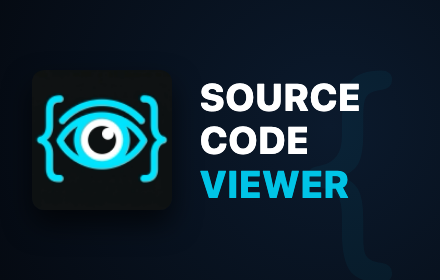
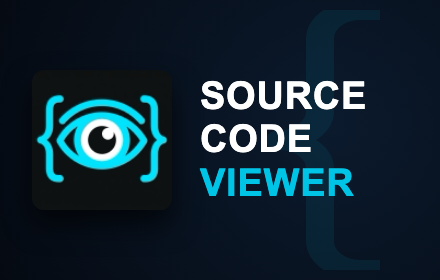
fix(promo): match original typography, lucide brackets and horizontal code lines

Changed region(s): [[0.4432, 0.2857, 0.8273, 0.4], [0.4432, 0.6, 0.7977, 0.7143], [0.4432, 0.4286, 0.7091, 0.5714]]

diff --git a/scripts/generate-promo-images.ts b/scripts/generate-promo-images.ts
@@ -40,22 +40,17 @@ async function generatePromoImages(): Promise<void> {
             display: flex;
             align-items: center;
             justify-content: center;
-            font-family: -apple-system, BlinkMacSystemFont, "Segoe UI", Roboto, Helvetica, Arial, sans-serif;
+            font-family: Arial, Helvetica, sans-serif;
             position: relative;
           }
-          /* Background watermark brackets */
-          .watermark {
+          /* Background Lucide bracket */
+          .b-left {
             position: absolute;
-            right: 12px;
-            top: 20px;
-            font-size: 260px;
-            font-family: "JetBrains Mono", Consolas, monospace;
-            font-weight: 300;
-            color: #00c4e6;
-            opacity: 0.05;
-            user-select: none;
+            left: 240px;
+            top: 10px;
+            width: 140px;
+            height: 260px;
             pointer-events: none;
-            line-height: 1;
           }
           .container {
             display: flex;
@@ -77,7 +72,6 @@ async function generatePromoImages(): Promise<void> {
             width: 100%;
             height: 100%;
             display: block;
-            image-rendering: auto;
           }
           .title-wrap {
             display: flex;
@@ -86,7 +80,7 @@ async function generatePromoImages(): Promise<void> {
           }
           .word-white {
             font-size: 38px;
-            font-weight: 800;
+            font-weight: bold;
             line-height: 1.08;
             letter-spacing: 0.02em;
             color: #ffffff;
@@ -94,7 +88,7 @@ async function generatePromoImages(): Promise<void> {
           }
           .word-cyan {
             font-size: 38px;
-            font-weight: 800;
+            font-weight: bold;
             line-height: 1.08;
             letter-spacing: 0.02em;
             color: #00c4e6;
@@ -103,7 +97,9 @@ async function generatePromoImages(): Promise<void> {
         </style>
       </head>
       <body>
-        <div class="watermark">{</div>
+        <svg class="b-left" viewBox="1 3 7 18" preserveAspectRatio="none" fill="none" stroke="#00c4e6" stroke-width="1.4" stroke-linecap="round" stroke-linejoin="round" opacity="0.08">
+          <path d="M8 3H7a2 2 0 0 0-2 2v5a2 2 0 0 1-2 2 2 2 0 0 1 2 2v5c0 1.1.9 2 2 2h1" />
+        </svg>
         <div class="container">
           <div class="icon-wrap">
             <img src="${iconBase64}" alt="Icon" />
@@ -118,7 +114,7 @@ async function generatePromoImages(): Promise<void> {
       </html>
     `);
 
-    await page.waitForTimeout(300);
+    await page.waitForTimeout(400);
     const smallPromoLocal = path.join(STORE_PROMO_DIR, 'small-promo-440x280.png');
     const smallPromoTarget = path.join(TARGET_DIR, 'small-promo-440x280.png');
     await page.screenshot({ path: smallPromoLocal });
@@ -141,64 +137,42 @@ async function generatePromoImages(): Promise<void> {
             height: 560px;
             overflow: hidden;
             background: radial-gradient(circle at 65% 50%, #0d223a 0%, #050a12 100%);
-            display: flex;
-            align-items: center;
-            justify-content: center;
-            font-family: -apple-system, BlinkMacSystemFont, "Segoe UI", Roboto, Helvetica, Arial, sans-serif;
             position: relative;
+            font-family: Arial, Helvetica, sans-serif;
           }
-          /* Background watermark brackets & lines */
-          .watermark-bracket-left {
+          /* Background Lucide brackets */
+          .brace-left {
             position: absolute;
-            left: 580px;
-            top: 15px;
-            font-size: 520px;
-            font-family: "JetBrains Mono", Consolas, monospace;
-            font-weight: 300;
-            color: #00c4e6;
-            opacity: 0.04;
-            user-select: none;
+            left: 495px;
+            top: 89px;
+            width: 260px;
+            height: 440px;
             pointer-events: none;
-            line-height: 1;
           }
-          .watermark-bracket-right {
+          .brace-right {
             position: absolute;
-            right: 70px;
-            top: 15px;
-            font-size: 520px;
-            font-family: "JetBrains Mono", Consolas, monospace;
-            font-weight: 300;
-            color: #00c4e6;
-            opacity: 0.04;
-            user-select: none;
+            right: 36px;
+            top: 89px;
+            width: 260px;
+            height: 440px;
             pointer-events: none;
-            line-height: 1;
           }
-          .watermark-lines {
+          /* Horizontal code lines */
+          .code-lines {
             position: absolute;
-            right: 140px;
-            top: 155px;
-            display: flex;
-            flex-direction: column;
-            gap: 24px;
-            opacity: 0.045;
+            inset: 0;
             pointer-events: none;
           }
           .code-line {
-            height: 12px;
+            position: absolute;
+            height: 14px;
+            border-radius: 7px;
             background: #00c4e6;
-            border-radius: 6px;
-          }
-          .container {
-            display: flex;
-            align-items: center;
-            gap: 60px;
-            padding: 0 110px;
-            z-index: 1;
-            width: 100%;
           }
           .icon-wrap {
-            flex-shrink: 0;
+            position: absolute;
+            left: 115px;
+            top: 145px;
             width: 260px;
             height: 260px;
             border-radius: 16px;
@@ -209,64 +183,66 @@ async function generatePromoImages(): Promise<void> {
             width: 100%;
             height: 100%;
             display: block;
-            image-rendering: auto;
           }
-          .content-wrap {
-            display: flex;
-            flex-direction: column;
-            justify-content: center;
+          .text-wrap {
+            position: absolute;
+            left: 474px;
+            top: 171px;
           }
           .title-row {
-            font-size: 76px;
-            font-weight: 800;
-            line-height: 1.05;
-            letter-spacing: 0.01em;
+            font-size: 84px;
+            font-weight: bold;
+            line-height: 1.0;
             color: #ffffff;
-            text-transform: uppercase;
+            letter-spacing: 0;
           }
           .title-cyan {
-            font-size: 76px;
-            font-weight: 800;
-            line-height: 1.05;
-            letter-spacing: 0.01em;
+            font-size: 84px;
+            font-weight: bold;
+            line-height: 1.0;
             color: #00c4e6;
-            text-transform: uppercase;
-            margin-bottom: 22px;
+            margin-top: 12px;
+            letter-spacing: 0;
           }
           .subtitle {
-            font-size: 26px;
-            font-weight: 400;
+            font-size: 27px;
+            font-weight: normal;
             color: #94a3b8;
-            letter-spacing: -0.01em;
+            margin-top: 36px;
+            letter-spacing: 0;
           }
         </style>
       </head>
       <body>
-        <div class="watermark-bracket-left">{</div>
-        <div class="watermark-bracket-right">}</div>
-        <div class="watermark-lines">
-          <div class="code-line" style="width: 220px;"></div>
-          <div class="code-line" style="width: 340px;"></div>
-          <div class="code-line" style="width: 180px;"></div>
-          <div class="code-line" style="width: 280px;"></div>
-          <div class="code-line" style="width: 240px;"></div>
-          <div class="code-line" style="width: 140px;"></div>
+        <svg class="brace-left" viewBox="1 3 7 18" preserveAspectRatio="none" fill="none" stroke="#00c4e6" stroke-width="1.4" stroke-linecap="round" stroke-linejoin="round" opacity="0.08">
+          <path d="M8 3H7a2 2 0 0 0-2 2v5a2 2 0 0 1-2 2 2 2 0 0 1 2 2v5c0 1.1.9 2 2 2h1" />
+        </svg>
+        <svg class="brace-right" viewBox="16 3 7 18" preserveAspectRatio="none" fill="none" stroke="#00c4e6" stroke-width="1.4" stroke-linecap="round" stroke-linejoin="round" opacity="0.08">
+          <path d="M16 21h1a2 2 0 0 0 2-2v-5c0-1.1.9-2 2-2a2 2 0 0 1-2-2V5a2 2 0 0 0-2-2h-1" />
+        </svg>
+        <div class="code-lines">
+          <div class="code-line" style="top: 150px; left: 1000px; width: 220px; opacity: 0.08;"></div>
+          <div class="code-line" style="top: 187px; left: 1000px; width: 160px; opacity: 0.04;"></div>
+          <div class="code-line" style="top: 228px; left: 950px; width: 350px; opacity: 0.08;"></div>
+          <div class="code-line" style="top: 276px; left: 1050px; width: 240px; opacity: 0.06;"></div>
+          <div class="code-line" style="top: 297px; left: 990px; width: 180px; opacity: 0.05;"></div>
+          <div class="code-line" style="top: 317px; left: 990px; width: 250px; opacity: 0.06;"></div>
+          <div class="code-line" style="top: 359px; left: 1050px; width: 320px; opacity: 0.08;"></div>
+          <div class="code-line" style="top: 401px; left: 1050px; width: 160px; opacity: 0.05;"></div>
         </div>
-        <div class="container">
-          <div class="icon-wrap">
-            <img src="${iconBase64}" alt="Icon" />
-          </div>
-          <div class="content-wrap">
-            <div class="title-row">SOURCE CODE</div>
-            <div class="title-cyan">VIEWER</div>
-            <div class="subtitle">View formatted, highlighted page source</div>
-          </div>
+        <div class="icon-wrap">
+          <img src="${iconBase64}" alt="Icon" />
+        </div>
+        <div class="text-wrap">
+          <div class="title-row">SOURCE CODE</div>
+          <div class="title-cyan">VIEWER</div>
+          <div class="subtitle">View formatted, highlighted page source</div>
         </div>
       </body>
       </html>
     `);
 
-    await page.waitForTimeout(300);
+    await page.waitForTimeout(400);
     const marqueeLocal = path.join(STORE_PROMO_DIR, 'marquee-1400x560.png');
     const marqueeTarget = path.join(TARGET_DIR, 'marquee-1400x560.png');
     await page.screenshot({ path: marqueeLocal });
